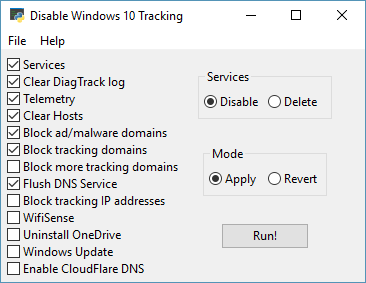
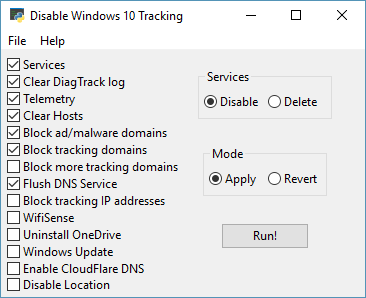
New 'Disable location' feature & bugfixes

diff --git a/dwt.py b/dwt.py
@@ -74,7 +74,7 @@ class ConsoleDialog(wx.Dialog):
 class MainFrame(wx.Frame):
     def __init__(self):
         super(MainFrame, self).__init__(parent=wx.GetApp().GetTopWindow(), title="Disable Windows 10 Tracking",
-                                        size=(380, 290))
+                                        size=(380, 305))
         self.SetMinSize(self.GetSize())
         panel = MainPanel(self)
 
@@ -169,6 +169,10 @@ class MainPanel(wx.Panel):
         self.cloudflare_dns_check = wx.CheckBox(self, label="Enable CloudFlare DNS")
         self.cloudflare_dns_check.SetToolTip("Switch all connections to safe CloudFlare DNS")
 
+        # Location checkbox
+        self.location_check = wx.CheckBox(self, label="Disable Location")
+        self.location_check.SetToolTip("")
+
         self.service_rad = wx.RadioBox(self, label="Services", choices=("Disable", "Delete"))
         self.service_rad.SetItemToolTip(item=0, text="Simply disables the services. This can be undone.")
         self.service_rad.SetItemToolTip(item=1, text="Deletes the services completely. This can't be undone.")
@@ -204,6 +208,7 @@ class MainPanel(wx.Panel):
         check_sizer.Add(self.onedrive_check, 0, wx.ALL, 1)
         check_sizer.Add(self.windows_update_check, 0, wx.ALL, 1)
         check_sizer.Add(self.cloudflare_dns_check, 0, wx.ALL, 1)
+        check_sizer.Add(self.location_check, 0, wx.ALL, 1)
 
         # self.Bind(wx.EVT_CHECKBOX, handler=self.select_all_apps, source=select_all_check)
         self.Bind(wx.EVT_CHECKBOX, handler=self.ip_warning, source=self.ip_check)
@@ -289,7 +294,9 @@ class MainPanel(wx.Panel):
         if self.windows_update_check.IsChecked():
             dwt_util.windows_update(undo=undo)
         if self.cloudflare_dns_check.IsChecked():
-            dwt_util.cloudflare_dns(undo=undo)
+            dwt_util.cloudflare(undo=undo)
+        if self.location_check.IsChecked():
+            dwt_util.location(undo=undo)
         logger.info("Done. It's recommended that you reboot as soon as possible for the full effect.")
         logger.info("If you feel something didn't work properly, please press the 'Report an issue'")
         console.Center()

diff --git a/dwt_util.py b/dwt_util.py
@@ -278,6 +278,9 @@ def hosts_ad_removal(entries, undo):
     adblock_entries = open('hosts.txt', 'r+', encoding='utf-8').read().split('\n')
     null_ip = "0.0.0.0"
     www = "www."
+    if os.path.exists('whitelist.txt'):
+        whitelisted_file_entries = open('whitelist.txt', 'r').read().split('\n')
+        entries = entries + whitelisted_file_entries
     whitelisted_entries = set([(null_ip + " ") + x for x in entries] + [(null_ip + " " + www) + x for x in entries])
     if undo:
         try:
@@ -368,7 +371,7 @@ def windows_update(undo):
             os.system('net start DoSvc > NUL')
             os.system('net start wuauserv > NUL')
             os.system('net start UsoSvc > NUL')
-            os.system('wuauclt /updatenow > NUL')
+            os.system('wuauclt.exe /detectnow /updatenow > NUL')
             logger.info("Windows Update: Updates are now enabled")
             return True
         except OSError:
@@ -441,3 +444,20 @@ def subprocess_handler(cmd):
     p = subprocess.Popen(cmd, stdout=subprocess.PIPE, stderr=subprocess.PIPE, stdin=subprocess.PIPE, shell=True)
     output = p.communicate()
     return [p.returncode, output]
+
+
+def location(undo):
+    if undo:
+        os.system(
+            'REG ADD "HKEY_CURRENT_USER\SOFTWARE\Microsoft\Windows\CurrentVersion\DeviceAccess\Global\{'
+            'BFA794E4-F964-4FDB-90F6-51056BFE4B44}" /v Value /t REG_SZ /d Allow /f > NUL')
+        os.system(
+            'REG ADD "HKEY_CURRENT_USER\SOFTWARE\Microsoft\Windows NT\CurrentVersion\Sensor\Permissions\{'
+            'BFA794E4-F964-4FDB-90F6-51056BFE4B44}" /v SensorPermissionState /t REG_DWORD /d 1 /f > NUL')
+    else:
+        os.system(
+            'REG ADD "HKEY_CURRENT_USER\SOFTWARE\Microsoft\Windows\CurrentVersion\DeviceAccess\Global\{'
+            'BFA794E4-F964-4FDB-90F6-51056BFE4B44}" /v Value /t REG_SZ /d Deny /f > NUL')
+        os.system(
+            'REG ADD "HKEY_CURRENT_USER\SOFTWARE\Microsoft\Windows NT\CurrentVersion\Sensor\Permissions\{'
+            'BFA794E4-F964-4FDB-90F6-51056BFE4B44}" /v SensorPermissionState /t REG_DWORD /d 0 /f > NUL')

diff --git a/README.md b/README.md
@@ -81,6 +81,10 @@ Disables all incomming updates through Windows Update.
 
 Sets secure and fast CloudFlare DNS as primary and secondary on all connections.
 
+#### Location
+
+Disables localisation feature in Windows 10.
+
 ## Delete Services vs Disable Services
 
 Selecting "Disable" will simply stop the services from being able to run.
